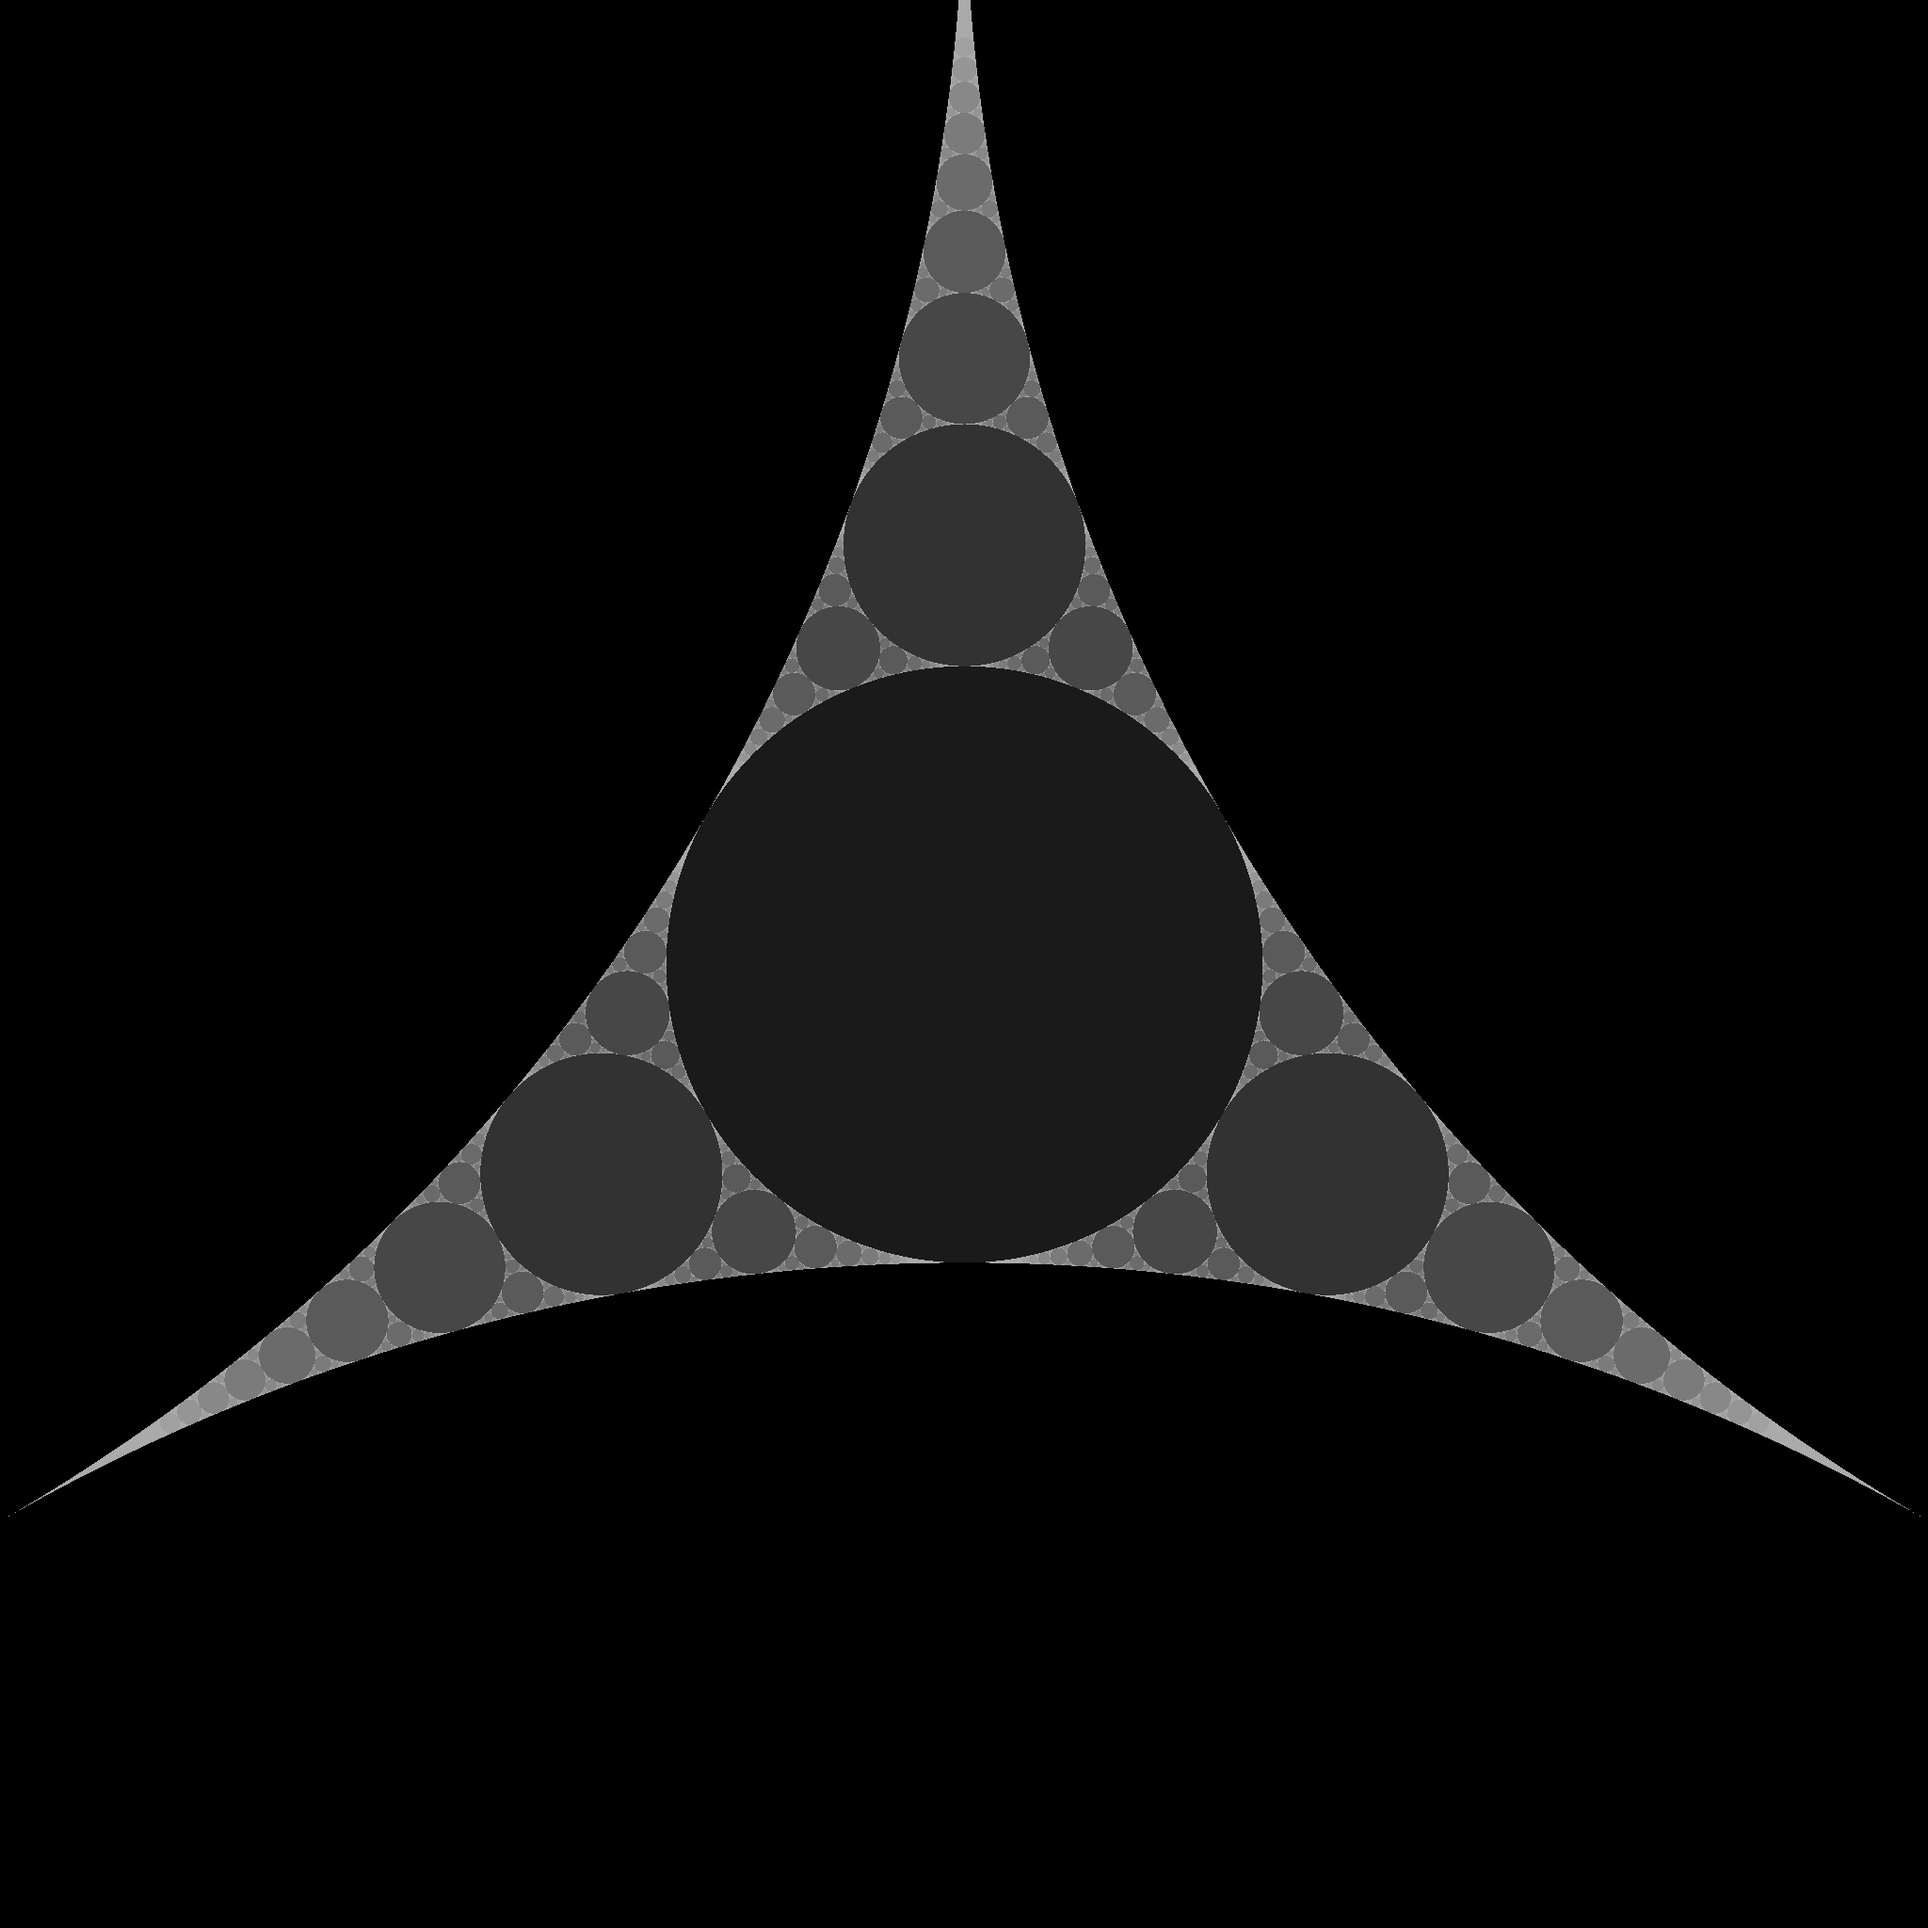
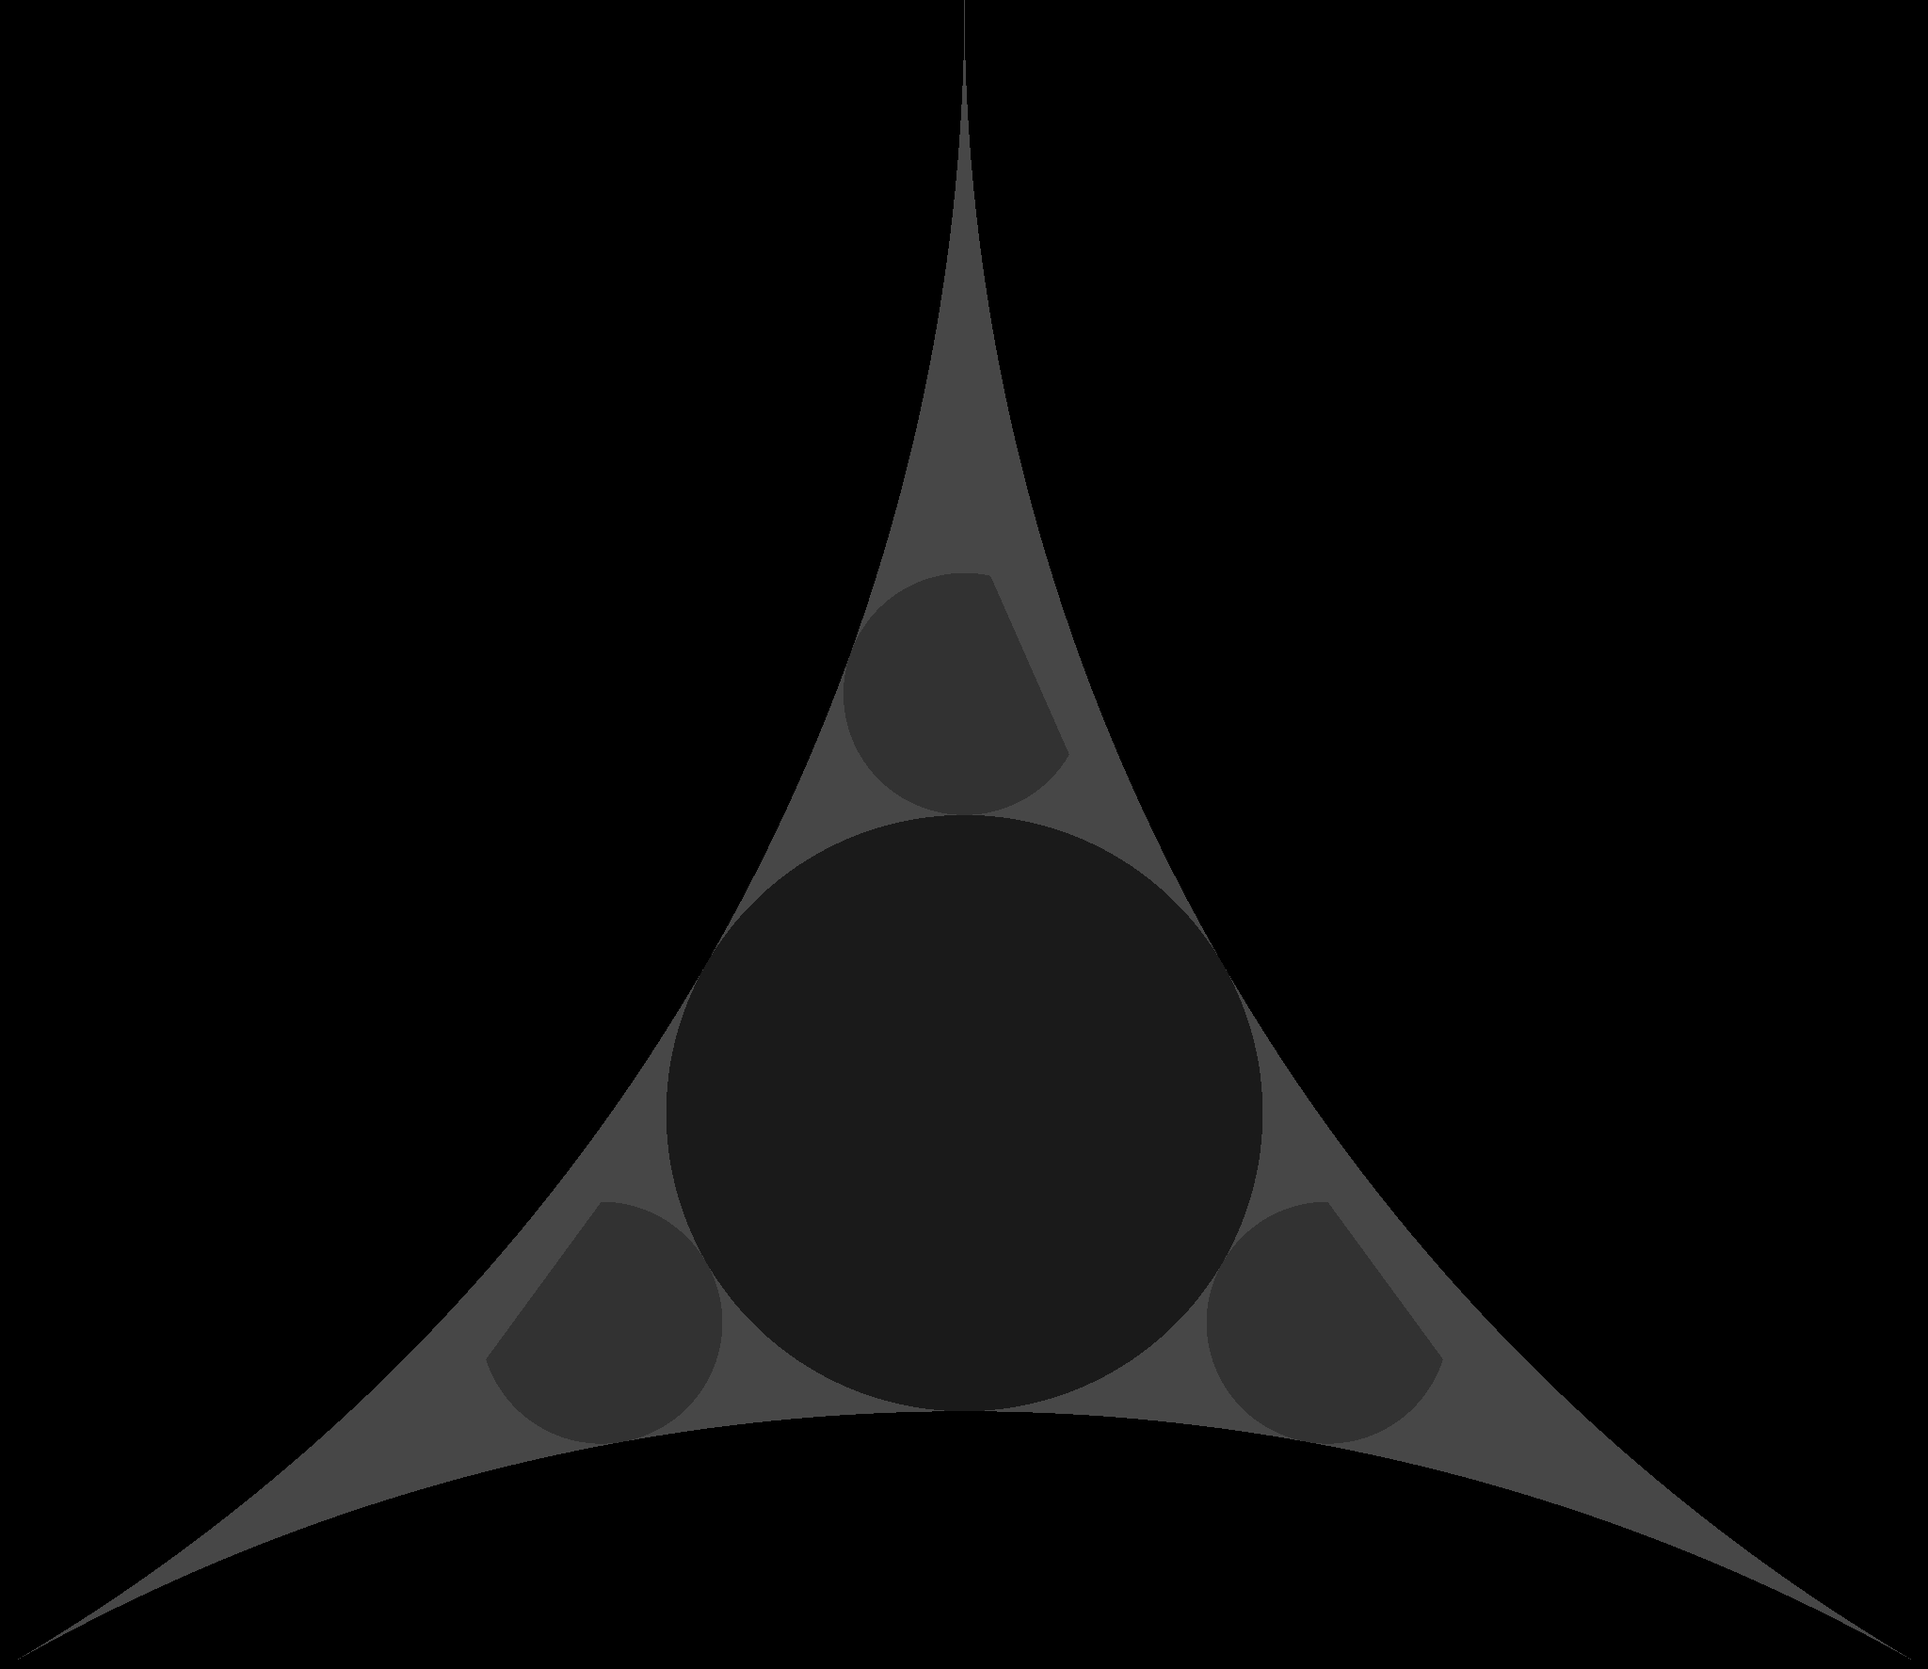
Added faulty triangle checking.

Changed region(s): [[0.0312, 0.0, 0.9688, 0.9616], [0.0312, 0.9616, 0.0625, 0.9927]]

diff --git a/Apollonius.java b/Apollonius.java
@@ -5,6 +5,46 @@ import java.io.File;
 import java.io.IOException;
 import javax.imageio.ImageIO;
 
+class Vector {
+	double x;
+	double y;
+	
+	public Vector(double x, double y) {
+		this.x = x;
+		this.y = y;
+	}
+	
+	public double squared_length() {
+		return x*x + y*y;
+	}
+	
+	public double length() {
+		return Math.sqrt(squared_length());
+	}
+	
+	public Vector normalized() {
+		double len = length();
+		return new Vector(x/len, y/len);
+	}
+	
+	public Vector normalized(double new_len) {
+		double len = length();
+		return new Vector(x/len*new_len, y/len*new_len);
+	}
+	
+	public static double dot(Vector a, Vector b) {
+		return a.x*b.x + a.y*b.y;
+	}
+	
+	public Vector scaled(double factor) {
+		return new Vector(x*factor, y*factor);
+	}
+	
+	public String toString() {
+		return String.format("-> (%.2f, %.2f)", x, y);
+	}
+}
+
 class Point {
 	double x;
 	double y;
@@ -14,8 +54,16 @@ class Point {
 		this.y = y;
 	}
 	
+	public static Vector difference(Point a, Point b) {
+		return new Vector(a.x - b.x, a.y - b.y);
+	}
+	
+	public Point translated(Vector a) {
+		return new Point(x + a.x, y + a.y);
+	}
+	
 	public String toString() {
-		return String.format("(%.2f, %.2f)", x, y);
+		return String.format(">< (%.2f, %.2f)", x, y);
 	}
 }
 
@@ -96,6 +144,39 @@ class LinearFunction {
 	}
 }
 
+class Triangle {
+	Point a;
+	Point b;
+	Point c;
+
+	public Triangle(Point a, Point b, Point c) {
+		this.a = a;
+		this.b = b;
+		this.c = c;
+	}
+	
+	public boolean contains(Point p, boolean do_debug) {
+		Vector tx_axis = Point.difference(b, a);
+		Vector ty_axis = Point.difference(c, a);
+		
+		Vector rel_pos = Point.difference(p, a);
+		
+		double tx = Vector.dot(rel_pos, tx_axis) / tx_axis.squared_length();
+		double ty = Vector.dot(rel_pos, ty_axis) / ty_axis.squared_length();
+		
+		if (do_debug) {
+			System.out.println(String.format("%s within %s", p.toString(), this.toString()));
+			System.out.println(String.format("%s %s %s %.2f %.2f", tx_axis.toString(), ty_axis.toString(), rel_pos.toString(), tx, ty));
+		}
+		
+		return tx >= 0 && ty >= 0 && tx + ty <= 1;
+	}
+	
+	public String toString() {
+		return String.format("/\\ %s - %s - %s", a.toString(), b.toString(), c.toString());
+	}
+}
+
 // This class represents an individual circle in the apollonius grain fractal, called a "grain".
 // Each is the result of finding a circle tangent to three others, its parent plus two contributors. Each grain has three children and is the parent of all three.
 // A node's two contributors are chosen from among the node's parent's parent and parent's contributors. Since order doesn't matter, there are three possibilites, and thus three children.
@@ -167,17 +248,28 @@ class ApolloniusGrain {
 	// That is, by one of the circles. This metric is used in coloring.
 	// If the point is not contained, returns the max depth plus one.
 	// When called on the root, if the point is contained by scaffold circles, returns 0. If contained by the root, returns 1.
-	public int getContainmentDepth(Point p) {
+	public int getContainmentDepth(Point p, boolean do_debug) {
 		if (isRoot()) {
 			if (this.parent.contains(p) || this.contributor_a.contains(p) || this.contributor_b.contains(p)) {
 				return 0;
 			}
 		}
 		
-		return getContainmentDepth(p, 1);
+		return getContainmentDepthRecurse(p, 1, do_debug);
 	}
 	
-	private int getContainmentDepth(Point p, int current_depth) {
+	// This function assumes that the parent circles of this grain are tangent to each other.
+	// In that case, this grain and all its children are contained in the triangle whose vertices are the points of tangency.
+	public Triangle getDartBounds() {
+		// For each pair of circles, translate olne origin in the direction of the other circle out to its radius, at the point of tangency.
+		return new Triangle(
+			parent.origin().translated(Point.difference(contributor_a.origin(), parent.origin()).normalized(parent.radius())),
+			parent.origin().translated(Point.difference(contributor_b.origin(), parent.origin()).normalized(parent.radius())),
+			contributor_a.origin().translated(Point.difference(contributor_b.origin(), contributor_a.origin()).normalized(contributor_a.radius()))
+		);
+	}
+	
+	private int getContainmentDepthRecurse(Point p, int current_depth, boolean do_debug) {
 		if (this.circle.contains(p)) {
 			return current_depth;
 		}
@@ -186,19 +278,38 @@ class ApolloniusGrain {
 				return current_depth+1;
 			}
 			else {
-				return Math.min(
-					this.child_a.getContainmentDepth(p, current_depth+1),
-					Math.min(
-						this.child_b.getContainmentDepth(p, current_depth+1),
-						this.child_c.getContainmentDepth(p, current_depth+1)
-					)
-				);
+				ApolloniusGrain[] children = new ApolloniusGrain[] {child_a, child_b, child_c};
+				for (int i = 0; i < 3; i++) {
+					Triangle dart_bounds = children[i].getDartBounds();
+					if (dart_bounds.contains(p, do_debug)) {
+						return children[i].getContainmentDepthRecurse(p, current_depth+1, do_debug);
+					}
+				}
 			}
+		}
+		
+		return current_depth + getMaxDepth() + 1;
+	}
+	
+	private int getMaxDepth() {
+		if (isLeaf()) {
+			return 0;
+		}
+		else {
+			return child_a.getMaxDepth() + 1;
 		}
 	}
 	
 	private boolean contains(Point p) {
 		return circle.contains(p);
+	}
+	
+	private Point origin() {
+		return circle.origin;
+	}
+	
+	private double radius() {
+		return circle.radius;
 	}
 	
 	private boolean isLeaf() {
@@ -211,6 +322,10 @@ class ApolloniusGrain {
 	
 	private boolean isRoot() {
 		return this.parent != null && this.parent.isScaffold();
+	}
+	
+	public String toString() {
+		return this.circle.toString();
 	}
 }
 
@@ -347,15 +462,17 @@ public class Apollonius {
 		
 		// Generate fractal.
 		ApolloniusGrain root = new ApolloniusGrain(A, B, C);
-		root.calculateChildrenToDepth(8);
+		root.calculateChildrenToDepth(1);
 		
 		float left = -0.5f;
 		float right = 0.5f;
-		float top = -0.5f;
-		float bottom = 0.5f;
+		float top = -1/3f * (float) Math.sqrt(3);
+		float bottom = 1/6f * (float) Math.sqrt(3);
+		
+		float aspect_ratio = (right-left) / (bottom-top);
 		
 		int width = 1024*2;
-		int height = 1024*2;
+		int height = (int) (width / aspect_ratio);
 		
 		BufferedImage image = new BufferedImage(width, height, BufferedImage.TYPE_INT_RGB);
 		
@@ -366,9 +483,12 @@ public class Apollonius {
 					((double) y) / height * (bottom - top) + top
 				);
 				
-				int depth = root.getContainmentDepth(sample);
+				boolean do_debug = x == 530 && y == 1370;
+				
+				int depth = root.getContainmentDepth(sample, do_debug);
 				
 				int val = (int) (255 * (1 - Math.pow(3, -(float) depth / 10)));
+				//int val = depth % 2 * 255;
 				int pixel = (val << 16) | (val << 8) | val;
 
                 // Set the pixel at the specific coordinates
